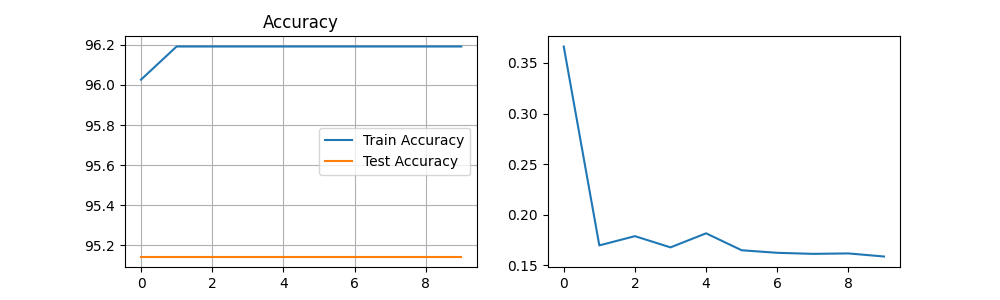
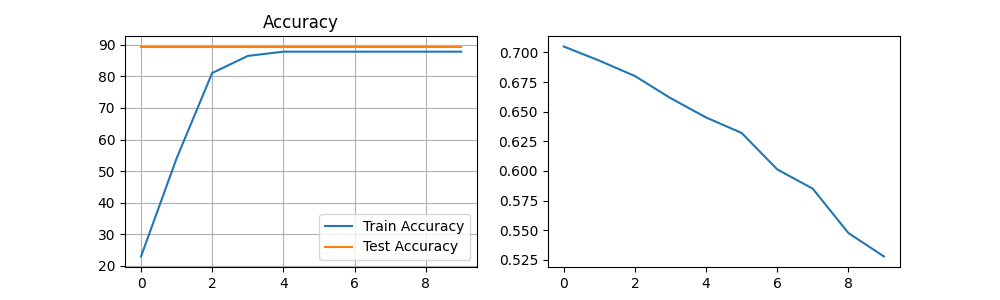
modified:   app.py 	modified:   static/HTML/images/LSTM_test_acc.png 	modified:   static/HTML/images/LSTM_train_acc.png 	modified:   templates/index.html 	modified:   views.py

diff --git a/templates/index.html b/templates/index.html
@@ -52,7 +52,7 @@
                   <div class="p-2 w-25 d-inline-block">
                     <form action="brandtype" name="LoadListItems" method="POST">
                     <select name="gadgetBrand" id="brandlist" class="form-control custom-select custom-select-lg mb-3" onchange="this.form.submit()">
-                      <!-- <option selected value="None" >Brand</option> -->
+                      <option selected value="None" >Brand</option>
                         {% for optionvalue in brands%}
                           <option value="{{optionvalue}}">{{optionvalue}}</option>
                         {% endfor %}
@@ -63,7 +63,7 @@
                 <div class="p-2 w-25 d-inline-block">
                   <form action="typemodel" name="LoadListType" method="POST">
                   <select name="gadgetType" class="form-control custom-select custom-select-lg mb-3" onchange="this.form.submit()">
-                    <!-- <option selected>Type</option> -->
+                    <option selected>Type</option>
                       {% for optionvalue in gadgetType%}
                       <option value="{{optionvalue}}">{{optionvalue}}</option>
                       {% endfor %}
@@ -74,7 +74,7 @@
                   <div class="p-2 w-25 d-inline-block">
                     <form action="generaterecomendation" name="LoadListType" method="POST">
                       <select name="gadgetModel" class="form-control custom-select custom-select-lg mb-3" onchange="this.form.submit()">
-                      <!-- <option selected>Model</option> -->
+                      <option selected>Model</option>
                         {% for optionvalue in gadgetModel%}
                         <option value="{{optionvalue}}">{{optionvalue}}</option>
                         {% endfor %}
@@ -107,6 +107,10 @@
               <div class="card-body"> 
                   <h6 class="card-title">Details:</h6>
                   <p class="card-text">
+                    {% for str_recommendation in str_recommendation %}
+                      {{str_recommendation}} <br>
+                    {% endfor %}
+
                     {% for message in get_flashed_messages() %}
                       {{message}}
                     {% endfor %}

diff --git a/app.py b/app.py
@@ -21,7 +21,6 @@ lemmatizer = WordNetLemmatizer()
 import mysql.connector
 from sqlalchemy import create_engine
 
-
 views = Blueprint(__name__, "views")
 app = Flask(__name__)
 mydb = mysql.connector.connect(
@@ -67,16 +66,20 @@ def modelcomplete():
 @app.route("/generaterecomendation", methods=["GET", "POST"])
 def modelrecommendation():
     #test values only
-    brands = "Apple"
-    type = "Tablet"
-    model = "iPad Pro 13Inch M4"
-    temp_df = pd.read_sql("SELECT Username, Date, Reviews, Rating FROM gadget_reviews where Brand='" +brands +"' and Type='"+type+"' and Model='"+model+"'", mydb)
-    temp_df
-    gadget_search = brands + " " + type + " " + model
-
-
+    # brands = "Apple"
+    # type = "Tablet"
+    # model = "iPad Pro 13Inch M4"
+    brands = session["brands"]
+    type = session["type"]
+    model =  "iPad Pro 11inch M4"#str(request.form["gadgetModel"])
+    gadget_search =  "ipad"
     #gadget_search = str(request.form['txtsearch'])
     
+    temp_df = pd.read_sql("SELECT Username, Date, Reviews, Rating FROM gadget_reviews where Brand='" +brands +"' and Type='"+type+"' and Model='"+model+"'", mydb)
+    temp_df_reco = pd.read_sql("SELECT * FROM attribute_table where Model='"+model+"'", mydb)
+    temp_df_count = pd.read_sql("SELECT count(model) as count FROM gadget_reviews where Model='"+model+"'", mydb) 
+    str_reco = "Based on the "+ str(temp_df_count["count"][0]) +" reviews: \n Battery has " + str(temp_df_reco["Batt_PR"][0]) + " positive reviews \n Screen has " + str(temp_df_reco["Scr_PR"][0]) + " positive reviews \n Speed has " + str(temp_df_reco["Spd_PR"][0]) + " positive reviews \n Memory Size has " + str(temp_df_reco["Mem_PR"][0]) + " positive reviews"
+    str_reco = str_reco.split("\n")
     genai.configure(api_key="AIzaSyDgRaOiicnXJSx_GNtfvuNxKLhCDCDpHhQ")
     model = genai.GenerativeModel("gemini-1.5-flash")
     airesult = str(model.generate_content(gadget_search).text)    
@@ -101,7 +104,7 @@ def modelrecommendation():
     temp_df = temp_df.replace(r'http\S+', '', regex=True)
     temp_df = temp_df.replace(r"x000D", '', regex=True)
     temp_df = temp_df.replace(r'<[^>]+>', '', regex= True)
-
+    
     temp_df = temp_df.replace('[^a-zA-Z0-9]', ' ', regex=True)
     temp_df = temp_df.replace(r"\s+[a-zA-Z]\s+", ' ', regex=True)
     temp_df = temp_df.replace(r" +", ' ', regex=True)
@@ -129,6 +132,7 @@ def modelrecommendation():
     # This rating will be drop to be dataframe since these are all neither positive or negative
     temp_df = temp_df.drop(temp_df[temp_df["Rating"]=='3'].index, inplace=False)
     
+    #df_kmeans = temp_df
     #----------------------------------------------------------
      #This portion is part of Naive Bayes, Multinomial Algorithm
      #----------------------------------------------------------
@@ -155,8 +159,6 @@ def modelrecommendation():
         else:
             nb_value = "The sentiment is positive"
 
-    
-    
     embedding_size = 50
      # cap each review to 100 words (tokens)
 
@@ -241,8 +243,7 @@ def modelrecommendation():
                 input_size = input_size,
                 hidden_size = hidden_size,
                 num_layers = num_stacked_layers,
-                batch_first = True
-                )
+                batch_first = True)
 
             self.dropout = nn.Dropout(drop_prob) # randomly sets outputs of a tensor to 0 during training
 
@@ -251,7 +252,7 @@ def modelrecommendation():
 
         def forward(self, x):
             batch_size = x.size(0)
-
+            
             # Initialize the cell state and hidden state
             h0 = torch.zeros((self.num_stacked_layers, batch_size, self.hidden_size)).to(device)
             c0 = torch.zeros((self.num_stacked_layers, batch_size, self.hidden_size)).to(device)
@@ -351,10 +352,9 @@ def modelrecommendation():
         epoch_test_losses.append(epoch_test_loss)
         epoch_test_accs.append(epoch_test_acc)
 
-    import matplotlib.pyplot as plt
-
+    import matplotlib.pyplot as pl
+    
     fig = plt.figure(figsize = (10, 3))
-
     plt.subplot(1, 2, 1)
     plt.plot(epoch_train_accs, label='Train Accuracy')
     plt.plot(epoch_test_accs, label='Test Accuracy')
@@ -370,33 +370,29 @@ def modelrecommendation():
     plt.title("Loss")
     plt.legend()
     plt.grid()
-    #plt.show()
 
+    # df_kmeans["Reviews"] = df_kmeans["Reviews"].values.astype("U")
+    # #vectorize = TfidfVectorizer(stop_words='english')
+    # vectorize = CountVectorizer()
+    # vectorized_value = vectorize.fit_transform(df_kmeans["Reviews"])
+    # k_value = 10
+    # k_model = KMeans(n_clusters=k_value, init='k-means++', max_iter=100, n_init=1)
+    # kmean_model = k_model.fit_transform(vectorized_value)
+    # kmean_model
+    # #df_reviews["clusters"] = k_model.labels_
+    # #df_reviews.head()
 
-
-    df_reviews["Reviews"] = df_reviews["Reviews"].values.astype("U")
-    #vectorize = TfidfVectorizer(stop_words='english')
-    vectorize = CountVectorizer()
-    vectorized_value = vectorize.fit_transform(df_reviews["Reviews"])
-
-    k_value = 10
-    k_model = KMeans(n_clusters=k_value, init='k-means++', max_iter=100, n_init=1)
-    kmean_model = k_model.fit_transform(vectorized_value)
-    kmean_model
-    #df_reviews["clusters"] = k_model.labels_
-    #df_reviews.head()
-
-    center_gravity = k_model.cluster_centers_.argsort()[:,::-1]
-    terms = vectorize.get_feature_names_out()
+    # center_gravity = k_model.cluster_centers_.argsort()[:,::-1]
+    # terms = vectorize.get_feature_names_out()
     
-    kmeans_value =""
-    for ctr in range(k_value):
-        kmeans_value += "Cluster %d: " % ctr
-        for ctr2 in center_gravity[ctr, :10]:
-            kmeans_value += " %s" % terms[ctr2]
+    # kmeans_value =""
+    # for ctr in range(k_value):
+    #     kmeans_value += "Cluster %d: " % ctr
+    #     for ctr2 in center_gravity[ctr, :10]:
+    #         kmeans_value += " %s" % terms[ctr2]
 
-    return render_template("index.html", ai_result = airesult, nb_sentiment=nb_value, kmeans_result = kmeans_value)
-
+    
+    return render_template("index.html", ai_result = airesult, nb_sentiment=nb_value, str_recommendation = str_reco) #kmeans_result = kmeans_value)
 
 #need this line to access HTML files inside templates folder
 #app = Flask(__name__)

diff --git a/views.py b/views.py
@@ -163,8 +163,7 @@ def naivebayes_algo():
                nb_value = "The sentiment is positive"
           else:
                nb_value = "The sentiment is positive"
-
-     
+               
      #---------------------------------------
      # This portion is for LSTM algorithm
      #---------------------------------------
@@ -382,8 +381,6 @@ def naivebayes_algo():
      plt.legend()
      plt.grid()
      #plt.show()
-
-
 
      df_reviews["Reviews"] = df_reviews["Reviews"].values.astype("U")
      #vectorize = TfidfVectorizer(stop_words='english')
